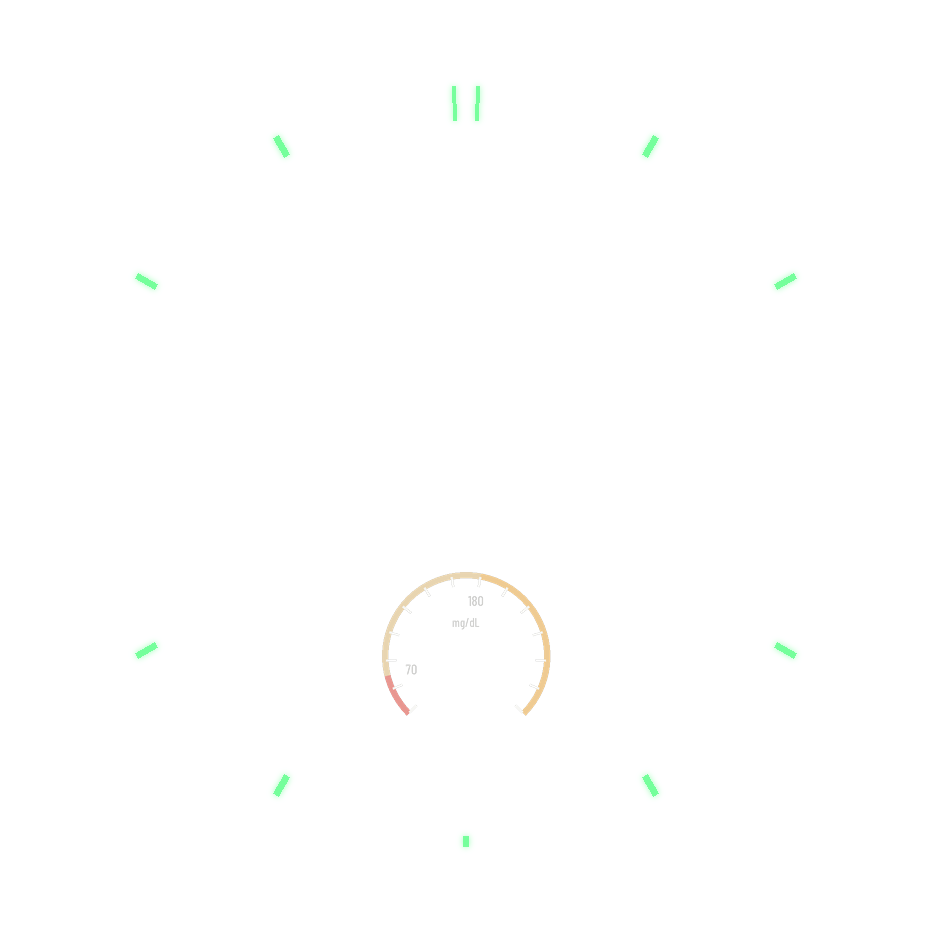
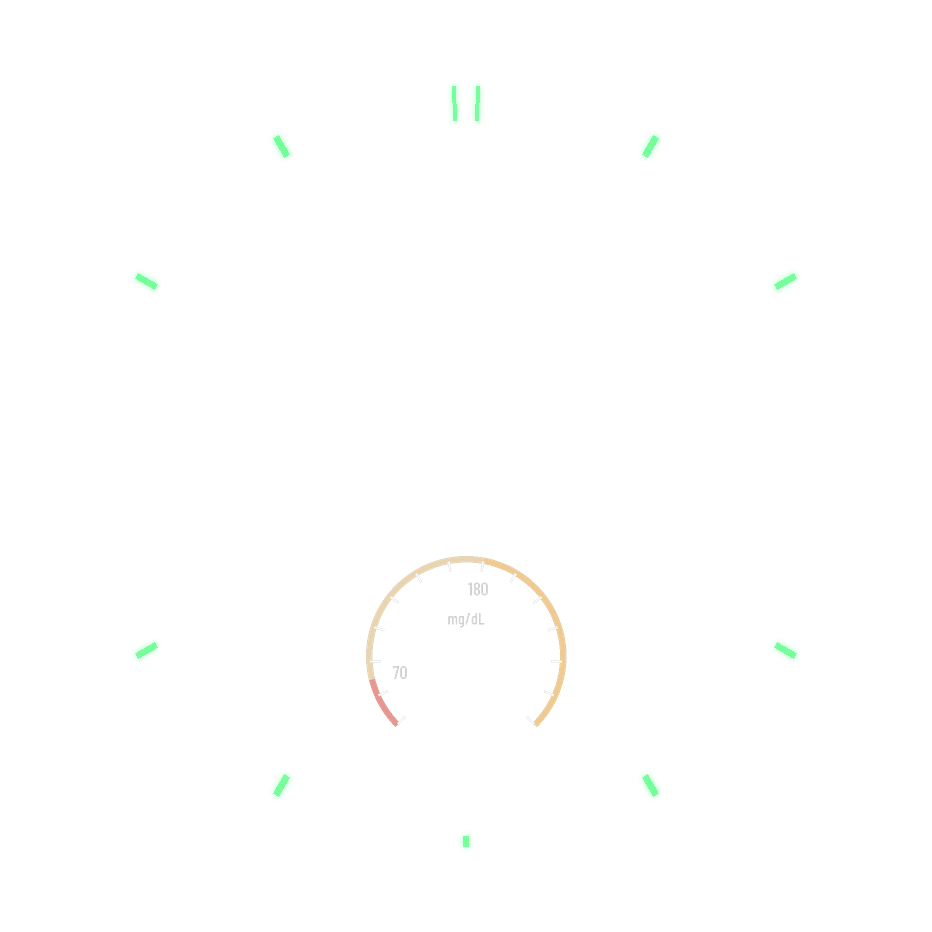
fix: larger glucose gauge and power reserve on Navigator

Changed region(s): [[0.3734, 0.5912, 0.6223, 0.7779]]

diff --git a/scripts/gen_navigator_xml.py b/scripts/gen_navigator_xml.py
@@ -47,16 +47,16 @@ def ind(block, n):
 
 
 def glucose_value(color):
-    return f'''<PartText x="27" y="65" width="30" height="18">
+    return f'''<PartText x="28" y="77" width="36" height="20">
     <Text align="END">
-        <Font family="barlow_condensed_semibold" size="16" color="{color}">
+        <Font family="barlow_condensed_semibold" size="20" color="{color}">
             <Template>%s<Parameter expression="round([COMPLICATION.RANGED_VALUE_VALUE])" /></Template>
         </Font>
     </Text>
 </PartText>
-<PartText x="57" y="65" width="14" height="18">
+<PartText x="64" y="77" width="14" height="20">
     <Text align="START">
-        <Font family="SYNC_TO_DEVICE" size="13" color="{color}">
+        <Font family="SYNC_TO_DEVICE" size="15" color="{color}">
             <Template>%s<Parameter expression="{TREND}" /></Template>
         </Font>
     </Text>
@@ -64,7 +64,7 @@ def glucose_value(color):
 
 
 def glucose_branch(name, color):
-    return (f'<Group name="{name}" x="0" y="0" width="96" height="96">\n'
+    return (f'<Group name="{name}" x="0" y="0" width="112" height="112">\n'
             f'{ind(glucose_value(color), 4)}\n</Group>')
 
 
@@ -178,16 +178,16 @@ XML = f'''<?xml version="1.0" encoding="utf-8"?>
             <Complication type="EMPTY" />
         </ComplicationSlot>
 
-        <!-- ===== 6 o'clock counter: glucose gauge, centre (233, 328), r 48.
+        <!-- ===== 6 o'clock counter: glucose gauge, centre (233, 328), r 56 (enlarged 2026-11-23).
              Scale 40..300 over 270 deg is printed in the dial; the needle turns with the value
              (saturates at both ends). Window under it: value + trend arrow, coloured by range:
              < 70 red, > 180 amber, otherwise gold (design NVC §5.5). ===== -->
-        <ComplicationSlot slotId="1" displayName="Glucosa" x="185" y="280" width="96" height="96"
+        <ComplicationSlot slotId="1" displayName="Glucosa" x="177" y="272" width="112" height="112"
             supportedTypes="RANGED_VALUE EMPTY">
             <DefaultProviderPolicy defaultSystemProvider="EMPTY" defaultSystemProviderType="EMPTY"
                 primaryProvider="com.gluroo.app/com.gluroo.app.dev.providers.GlucoseRangeDataProviderService"
                 primaryProviderType="RANGED_VALUE" />
-            <BoundingOval x="0" y="0" width="96" height="96" />
+            <BoundingOval x="0" y="0" width="112" height="112" />
             <Complication type="RANGED_VALUE">
                 <Condition>
                     <Expressions>
@@ -204,16 +204,16 @@ XML = f'''<?xml version="1.0" encoding="utf-8"?>
 {ind(glucose_branch("valor_rango", GOLD), 24)}
                     </Default>
                 </Condition>
-{ind(shadowed_needle("aguja_glucosa", "gauge", 48, 48, G_ANGLE), 16)}
+{ind(shadowed_needle("aguja_glucosa", "gauge", 56, 56, G_ANGLE), 16)}
             </Complication>
             <!-- No data: needle at rest, two grey dashes; never a made-up number -->
             <Complication type="EMPTY">
-                <PartText x="27" y="65" width="42" height="18">
+                <PartText x="34" y="77" width="44" height="20">
                     <Text align="CENTER">
-                        <Font family="barlow_condensed_semibold" size="16" color="{GREY}">--</Font>
+                        <Font family="barlow_condensed_semibold" size="20" color="{GREY}">--</Font>
                     </Text>
                 </PartText>
-{ind(shadowed_needle("aguja_glucosa", "gauge", 48, 48, "-135"), 16)}
+{ind(shadowed_needle("aguja_glucosa", "gauge", 56, 56, "-135"), 16)}
             </Complication>
         </ComplicationSlot>
 

diff --git a/art/blender/make_prints.py b/art/blender/make_prints.py
@@ -35,7 +35,7 @@ AMBER = (226, 160, 56, 255)
 GREY = (170, 170, 166, 255)
 
 # glucose gauge geometry (watch px, centre of the dial = 0,0; y down)
-GAUGE = (0.0, 95.0, 48.0)
+GAUGE = (0.0, 95.0, 56.0)  # enlarged on the user's request (2026-11-23; was r 48)
 RESERVE = (0.0, -30.0)
 
 
@@ -119,15 +119,15 @@ def navigator(out: Path):
     for v in range(40, 301, 20):
         tick(d, g2deg(v), gr - 13, gr - 8, 1.0, WHITE, gcx, gcy)
     for v in (70, 180):
-        label(img, str(v), BARLOW_M, 7, *polar(gr - 20, g2deg(v), gcx, gcy), GREY)
-    label(img, "mg/dL", BARLOW_M, 6, gcx, gcy - 16, GREY)
+        label(img, str(v), BARLOW_M, 9, *polar(gr - 22, g2deg(v), gcx, gcy), GREY)
+    label(img, "mg/dL", BARLOW_M, 8, gcx, gcy - 18, GREY)
     # power reserve (battery)
     pcx, pcy = RESERVE
     for i in range(11):
-        tick(d, -50 + i * 10, 26, 30 if i % 5 else 33, 0.9 if i % 5 else 1.4, WHITE, pcx, pcy)
-    label(img, "0", BARLOW_M, 6.5, *polar(38, -50, pcx, pcy), GREY)
-    label(img, "100", BARLOW_M, 6.5, *polar(39, 50, pcx, pcy), GREY)
-    label(img, "RESERVA", BARLOW_M, 5.5, pcx, pcy - 13, GREY)
+        tick(d, -50 + i * 10, 34, 39 if i % 5 else 43, 1.2 if i % 5 else 1.8, WHITE, pcx, pcy)  # enlarged 2026-11-23
+    label(img, "0", BARLOW_M, 8.5, *polar(49, -50, pcx, pcy), GREY)
+    label(img, "100", BARLOW_M, 8.5, *polar(51, 50, pcx, pcy), GREY)
+    label(img, "RESERVA", BARLOW_M, 7, pcx, pcy - 16, GREY)
     label(img, "NAVIGATOR", BARLOW_M, 8, 0, -84, (210, 210, 204, 255))
     img.save(out / "navigator_print_bg.png")  # production: no sample content
     # sample complication content (in the real face these come from the providers)

diff --git a/art/blender/navigator.py b/art/blender/navigator.py
@@ -51,7 +51,7 @@ wk.lathe("rehaut", [(195.6, -0.02), (211.8, 0.62)], REHAUT)
 
 # dial with holes for the sub-dials and the date window
 dial = wk.cylinder("dial", 0, 0, 196.2, -0.3, 0.0, DIAL, verts=256)
-for x, y, r, nm in [(-95, 0, 42, "activity"), (95, 0, 42, "weather"), (0, 95, 48, "glucose")]:
+for x, y, r, nm in [(-95, 0, 42, "activity"), (95, 0, 42, "weather"), (0, 95, 56, "glucose")]:
     wk.boolean_cut(dial, wk.cylinder("cut_" + nm, x, y, r, -1, 1, BLACK))
     wk.cylinder("floor_" + nm, x, y, r + 0.5, -0.45, -0.25, wk.snail_material(
         "floor_" + nm, {"Base Color": (0.06, 0.062, 0.068, 1), "Metallic": 0.7, "Roughness": 0.32}, PRINT))
@@ -83,9 +83,9 @@ wk.logo(0, -122, 60, 0.08, wk.logo_material())
 
 # glucose value window
 gcx, gcy = 0, 95
-wk.box("gwin", gcx, gcy + 26, 34, 16, -0.01, 0.03, 0, BLACK, bevel=0.02)
-gf = wk.box("gwin_frame", gcx, gcy + 26, 37, 19, -0.02, 0.05, 0, STEEL_POL, bevel=0.02)
-wk.boolean_cut(gf, wk.box("cut_gwin", gcx, gcy + 26, 34, 16, -1, 1, 0, BLACK, bevel=0))
+wk.box("gwin", gcx, gcy + 31, 44, 20, -0.01, 0.03, 0, BLACK, bevel=0.02)
+gf = wk.box("gwin_frame", gcx, gcy + 31, 47, 23, -0.02, 0.05, 0, STEEL_POL, bevel=0.02)
+wk.boolean_cut(gf, wk.box("cut_gwin", gcx, gcy + 31, 44, 20, -1, 1, 0, BLACK, bevel=0))
 if not BG:
     wk.text_obj("gval", str(GLUCOSE), wk.BARLOW, 13, gcx - 4, gcy + 26, 0.04, GOLD_TXT)
     wk.text_obj("gtrend", "→", wk.SYMBOLS, 10, gcx + 11, gcy + 26, 0.04, GOLD_TXT)

diff --git a/art/blender/hands.py b/art/blender/hands.py
@@ -58,12 +58,12 @@ def navigator(name, m):
         wk.cylinder("cap", 0, 0, 6.5, 0.80, 0.95, m["steel"], verts=64)
     elif name == "gauge":       # glucose gauge needle, pivot at the gauge centre
         # white lacquer like an aircraft gauge: polished steel got lost on the dial (watch, 2026-11-23)
-        wk.hand(name, 0, 3.9, 0.8, 0.30, 0.12, 0.05, 0.05, m["white"])
-        wk.cylinder("gcap", 0, 0, 3.4, 0.05, 0.16, m["steel"], verts=48)
+        wk.hand(name, 0, 4.6, 0.9, 0.34, 0.13, 0.05, 0.05, m["white"])
+        wk.cylinder("gcap", 0, 0, 4.0, 0.05, 0.16, m["steel"], verts=48)
     elif name in ("reserve", "reserve_low"):   # battery power-reserve needle; red when low
         mat = m["red_metal"] if name == "reserve_low" else m["white"]
-        wk.hand(name, 0, 2.6, 0.5, 0.26, 0.10, 0.05, 0.04, mat)
-        wk.cylinder("rcap", 0, 0, 2.4, 0.05, 0.13, m["steel"], verts=48)
+        wk.hand(name, 0, 3.6, 0.6, 0.32, 0.12, 0.05, 0.04, mat)
+        wk.cylinder("rcap", 0, 0, 3.0, 0.05, 0.13, m["steel"], verts=48)
 
 
 FACES = {

diff --git a/art/blender/navigator_aod.py b/art/blender/navigator_aod.py
@@ -53,10 +53,10 @@ def dial(art: Path, prints: Path):
             r0 = 182 if h == 6 else 176
             bar(d, deg, r0 + 3, 190, 2.4, LUME + (235,))
     out = glow(lume)
-    # glucose scale, dimmed: the printed gauge (zones and ticks) around (233, 328)
+    # glucose scale, dimmed: the printed gauge (zones and ticks) around (233, 328), r 56
     pr = Image.open(prints / "navigator_print_bg.png").convert("RGBA").resize((N, N), Image.LANCZOS)
     m = Image.new("L", (N, N), 0)
-    ImageDraw.Draw(m).ellipse([*P(-48, 95 - 48), *P(48, 95 + 48)], fill=255)
+    ImageDraw.Draw(m).ellipse([*P(-56, 95 - 56), *P(56, 95 + 56)], fill=255)
     gauge = Image.new("RGBA", (N, N), (0, 0, 0, 0))
     gauge.paste(pr, (0, 0), ImageChops.multiply(m, pr.getchannel("A")))
     gauge.putalpha(gauge.getchannel("A").point(lambda v: round(v * 0.55)))

diff --git a/docs/superpowers/specs/2026-11-23-navigator-design.md b/docs/superpowers/specs/2026-11-23-navigator-design.md
@@ -64,11 +64,11 @@ Coordenadas en píxeles del reloj, centro (233, 233), y hacia abajo.
 | Esfera | r ≤ 196, antracita con acabado sol; mapa en acero satinado con relieve | fondo 3D |
 | Índices | acero pulido aplicado con luminiscente; doble a las 12; cortos a las 3 y 9 | fondo 3D |
 | Logo NVC | (233, 111), 60 de ancho, oro aplicado; «NAVIGATOR» debajo | fondo 3D |
-| **Reserva de marcha = batería** | pivote (233, 203), arco −50°…+50°, r 26–33, 0 y 100 | escala en el fondo; aguja dinámica |
+| **Reserva de marcha = batería** | pivote (233, 203), arco −50°…+50°, **r 34–43** (agrandada el 2026-11-23; era r 26–33), 0 y 100; aguja blanca | escala en el fondo; aguja dinámica |
 | Contador 9 h · actividad | centro (138, 233), r 42, hundido con caracoleado, aro de acero | fondo; icono por complicación |
 | Contador 3 h · tiempo | centro (328, 233), r 42 | fondo; icono + temperatura por complicación |
-| **Contador 6 h · glucosa** | centro (233, 328), r 48; escala 40–300 en 270° (−135°…+135°); zonas rojo < 70, oro 70–180, ámbar > 180; marcas 70 y 180 | escala en el fondo; aguja y número dinámicos |
-| Ventana de glucosa | (233, 354), 34×16, marco de acero; número + flecha, color por rango | dinámica |
+| **Contador 6 h · glucosa** | centro (233, 328), **r 56** (agrandado el 2026-11-23; era r 48); aguja blanca; escala 40–300 en 270° (−135°…+135°); zonas rojo < 70, oro 70–180, ámbar > 180; marcas 70 y 180 | escala en el fondo; aguja y número dinámicos |
+| Ventana de glucosa | (233, 359), **44×20**, marco de acero; número de 20 px + flecha, color por rango | dinámica |
 | Fecha | ventana a las 4:30, r 160, 24×16 girada 45°, disco blanco con el día | ventana en el fondo; número dinámico girado |
 | Agujas | espada de acero facetado con luminiscente: horaria hasta r 118, minutero r 176; segundero rojo fino con punta redonda | 3D, sprites con sombra |
 

diff --git a/docs/pruebas/05-navigator.md b/docs/pruebas/05-navigator.md
@@ -13,6 +13,13 @@
 - Fecha girada 45° en la ventana de las 4:30: se lee.
 - Glucosa en rango (148→) en oro; tiempo 11° con icono; actividad con icono en oro.
 
+## Versión 2: glucosa y reserva más grandes
+
+![Versión 2](capturas/05-navigator-v2.png)
+
+Manómetro r 56 con ventana 44×20 y número de 20 px; reserva r 34–43. **Batería baja comprobada:**
+con el reloj al 20 % la aguja de la reserva sale en rojo (`BATTERY_IS_LOW`).
+
 ## Cómo se reconstruye
 
 ```
@@ -24,6 +31,5 @@ FACE=navigator scripts/watch.sh <serial> all <captura>
 ## Pendiente
 
 - Casos de glucosa con el proveedor falso (hipo en rojo, hiper en ámbar, sin dato, extremos).
-- Batería baja (aguja roja).
 - Always-On: a ojo, como en la NVC.
 - Fluidez y batería.
